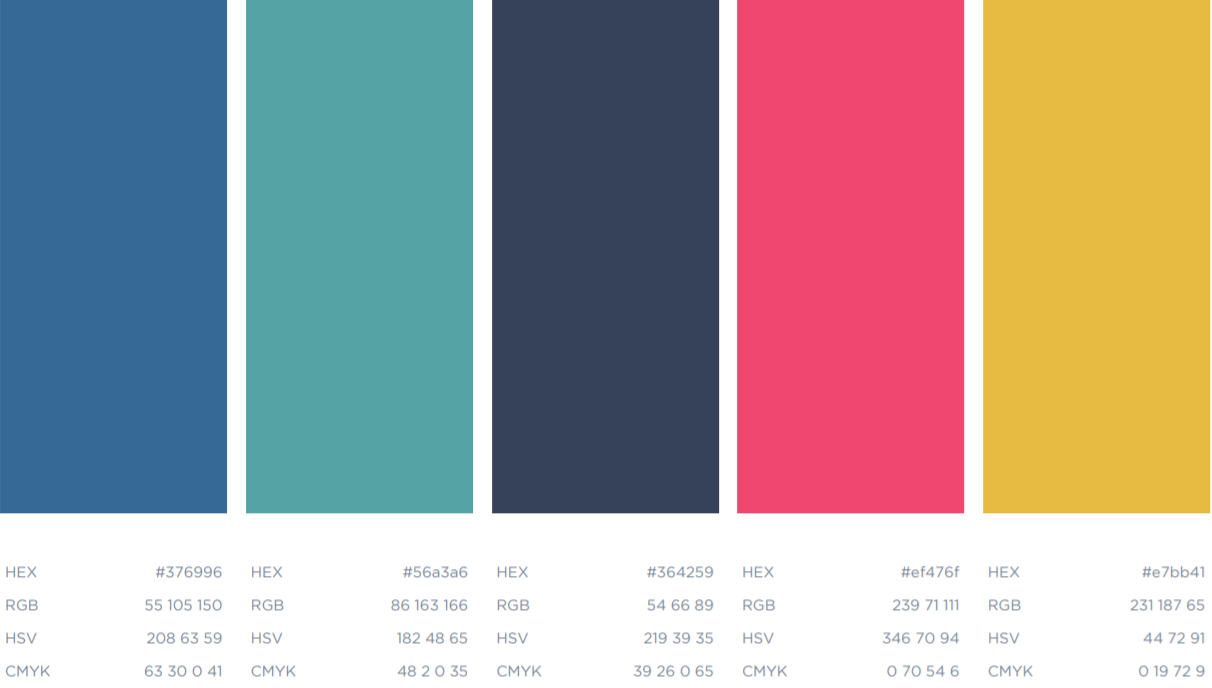
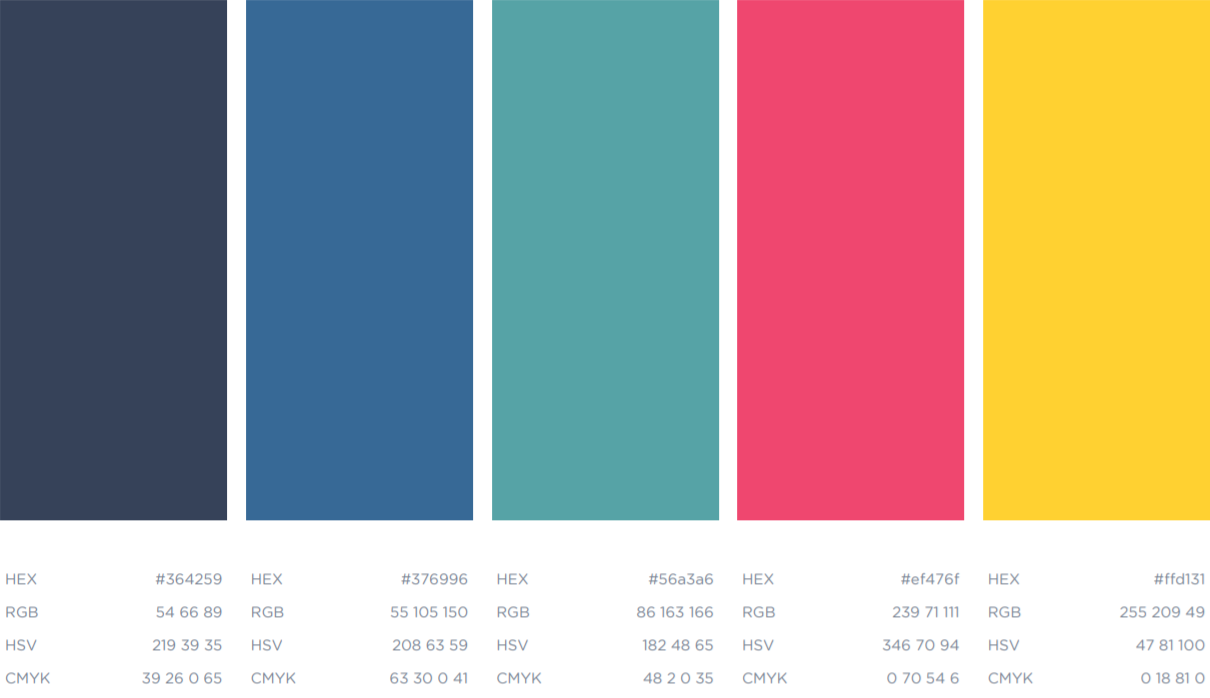
\#35 Add pallete contrast and components

diff --git a/docs/style-guide.md b/docs/style-guide.md
@@ -1,4 +1,5 @@
 
+
 # Guia de Estilo e Identidade Visual
 
 # Histórico de Revisão
@@ -8,6 +9,7 @@
 | :- | :- | :- | :- |
 | 12/09/2019 | 0.1 | Criação da versão inicial do documento | Fabíola |
 | 12/09/2019 | 0.1.1 | Adição da justificativa do nome da aplicação | Hugo Sobral de Lima Salomão |
+| 13/09/2019 | 0.2 | Adição de componentes e contraste da paleta de cores | Fabíola |
 
 # 1. Introdução
 
@@ -27,7 +29,7 @@ Tal conceito se relaciona com o propósito do nosso projeto de colaboração vol
 
 ## 3.2. Fontes
 
-As fontes utilizadas na aplicação serão: *
+As fontes utilizadas na aplicação serão:
 
  - **Raleway**(SIL OPEN FONT LICENSE Version 1.1), para títulos e 
  - **Roboto**(Apache License), para textos. 
@@ -55,11 +57,52 @@ Coloca-se no css, para a utilização das fontes:
 # 3.2.Paleta de cores
 
 ![paleta de cores](img/paleta.png)
-[aqui](https://coolors.co/376996-56a3a6-364259-ef476f-ffd166a)
+
+As cores foram selecionadas observando características do produto e sua finalidade, bem como a acessibilidade, testando-se o contraste. A ferramenta utilizada para construi-la foi [coolors](https://coolors.co/376996-56a3a6-364259-ef476f-edc841). 
+
+Ainda, em relação ao contraste, foram feitos testes e é recomendado ter estes números em mente para utilização das cores.
+
+<img src="img/contraste1.png" alt="contraste" width="200"/>
+
+<img src="img/contraste2.png" alt="contraste" width="200"/>
+
+<img src="img/contraste3.png" alt="contraste" width="200"/>
+
+<img src="img/contraste4.png" alt="contraste" width="200"/>
+
+<img src="img/contraste5.png" alt="contraste" width="200"/>
+
+<img src="img/contraste6.png" alt="contraste" width="200"/>
 
 # 4. Componentes
 
+## 4.1. Botões
 
-# Referências
+![contraste](img/botoes.png)
+
+## 4.2. Campos de formulários
+
+![contraste](img/campos.png)
+
+## 4.3. Navbar
+
+
+
+### Para celular
+
+![contraste](img/navcelular.png)
+
+
+### Para website
+
+![contraste](img/navwebsite1.png)
+
+![contraste](img/navwebsite2.png)
+
+![contraste](img/navweb.png)
+
+![contraste](img/navweb1.png)
+
+
 
 
